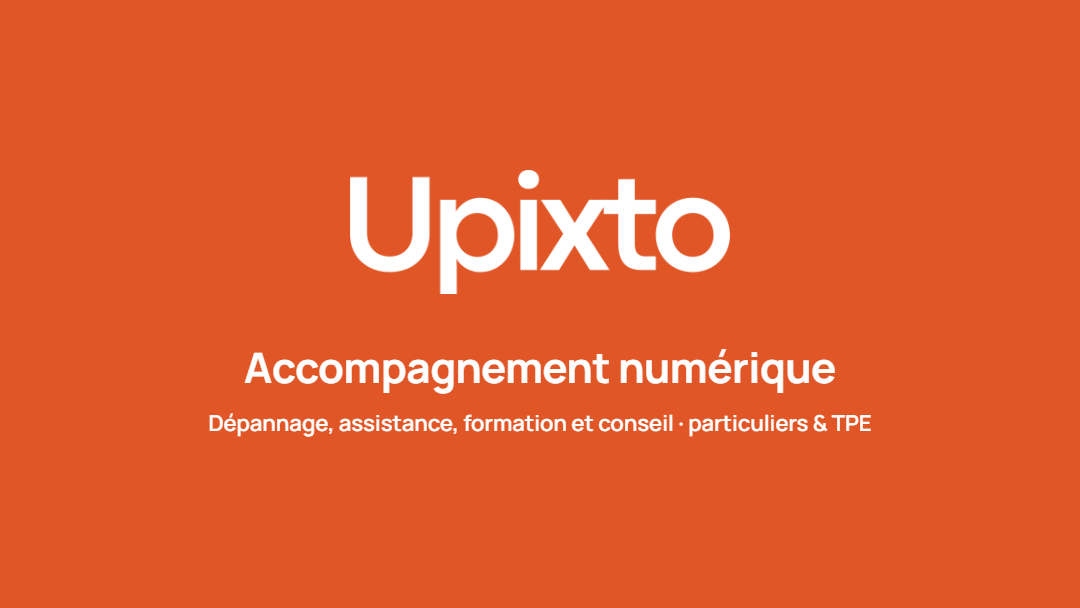
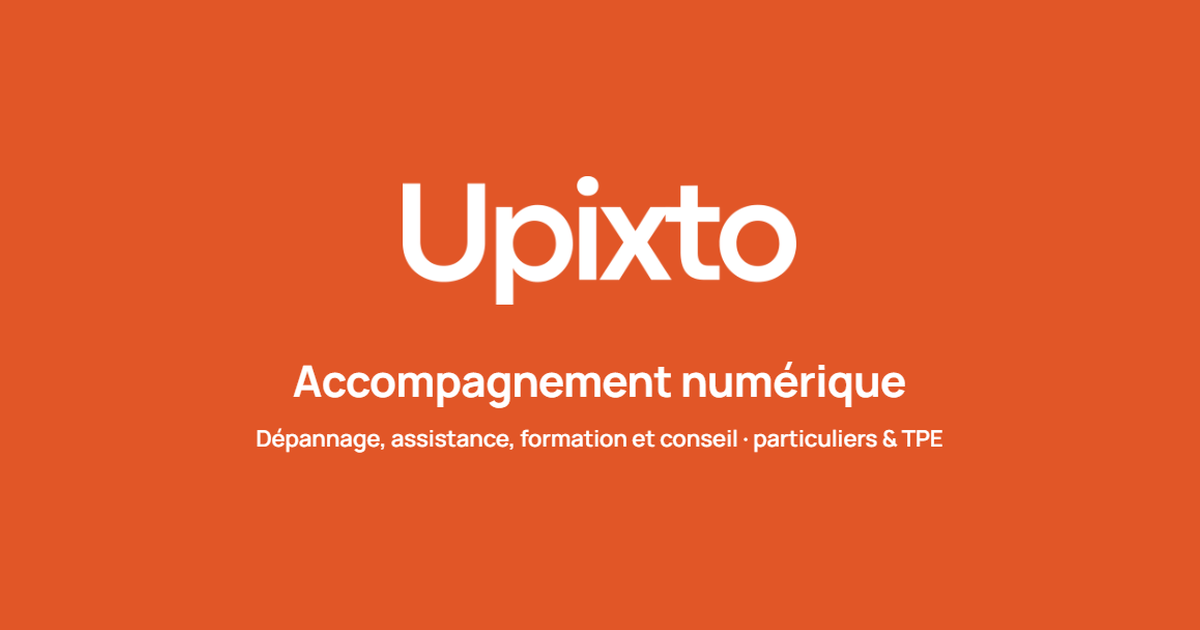
seo: resize share image to 1200x630
Claude-Session: https://claude.ai/code/session_0172SbxpSsk8idVBLpFDfBBE

Changed region(s): [[0.3056, 0.2812, 0.7028, 0.5], [0.2139, 0.5625, 0.7944, 0.6562], [0.1833, 0.6562, 0.825, 0.7188]]

diff --git a/index.html b/index.html
@@ -11,8 +11,8 @@
   <meta property="og:description" content="Accompagnement numérique pour particuliers et TPE dans le Doubs et la Haute-Saône, à domicile ou en entreprise." />
   <meta property="og:url" content="https://upixto.fr/" />
   <meta property="og:image" content="https://upixto.fr/img/og-image.png" />
-  <meta property="og:image:width" content="1080" />
-  <meta property="og:image:height" content="608" />
+  <meta property="og:image:width" content="1200" />
+  <meta property="og:image:height" content="630" />
   <meta property="og:image:alt" content="Upixto - Accompagnement numérique" />
   <meta name="twitter:card" content="summary_large_image" />
   <meta property="og:locale" content="fr_FR" />
